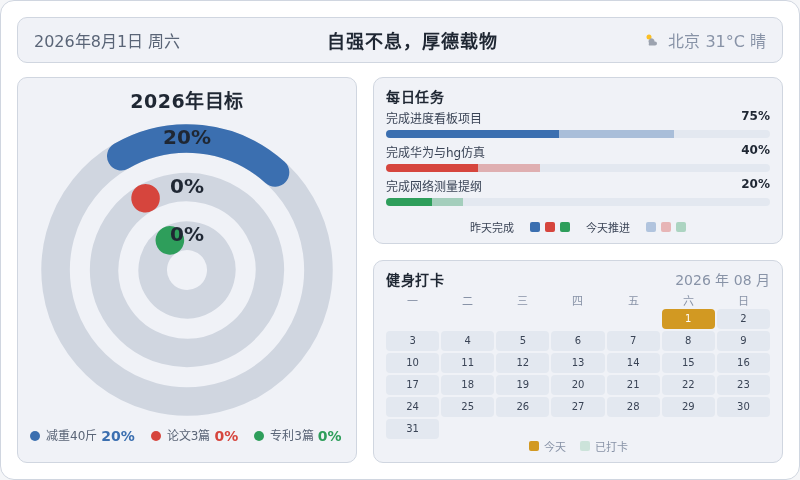
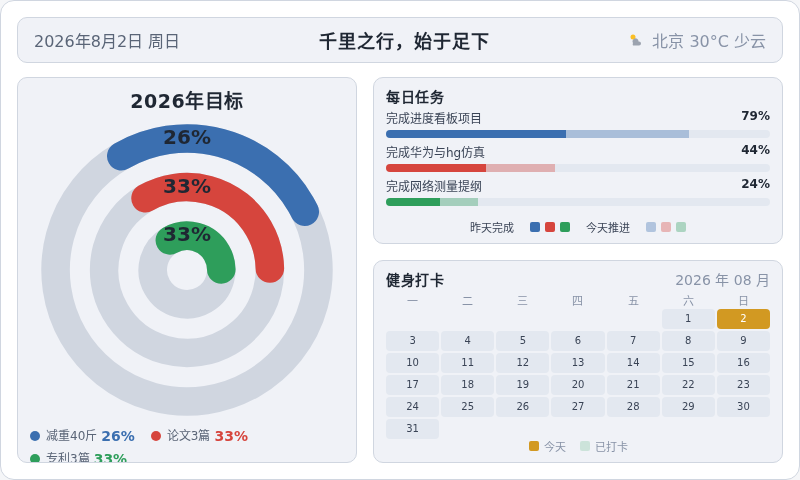
更新每日进度数据并修复看板问题
- 数据更新: 体重90.5(8/2)、健身打卡跑步一公里、任务进度+3、目标done+1、新口号千里之行，始于足下
- 新增 refresh_csv.py: 每日CSV刷新脚本(weight/fitness/tasks/goals/slogan)
- generate_dashboard.py:
  * slogan改为读取最后一个非空行(配合追加式更新)
  * 修复周日日期索引越界bug
  * 日期归一化, 兼容 2026/8/2 与 2026-08-01 两种格式
  * tasks取最新日期一组任务(兼容每日快照)

diff --git a/output/dashboard.html b/output/dashboard.html
@@ -153,11 +153,11 @@
 <body>
   <div class="dash">
     <div class="topbar">
-      <div class="tb-date" id="tbDate">2026年8月1日 周六</div>
-      <div class="tb-slogan">自强不息，厚德载物</div>
+      <div class="tb-date" id="tbDate">2026年8月2日 周日</div>
+      <div class="tb-slogan">千里之行，始于足下</div>
       <div class="tb-weather">
         <svg width="16" height="16" viewBox="0 0 16 16" aria-hidden="true"><circle cx="5" cy="5" r="2.5" fill="#fbbf24"/><path d="M5 11 a3 3 0 1 1 5.5 -1.5 h0.5 a2 2 0 1 1 0 4 H5 a2.5 2.5 0 0 1 0 -2.5z" fill="#9ca3af"/></svg>
-        <span>北京 31°C 晴</span>
+        <span>北京 30°C 少云</span>
       </div>
     </div>
     <div class="content">
@@ -168,34 +168,34 @@
           <svg viewBox="0 0 210 210" width="300" height="300" role="img" aria-label="三环进度仪表盘">
             <title>2026年目标三环进度</title>
             <g transform="rotate(-120 105 105)">
-              <circle cx="105" cy="105" r="92" fill="none" stroke="#d0d6e0" stroke-width="20"/><circle cx="105" cy="105" r="92" fill="none" stroke="#3b6fb0" stroke-width="20" stroke-linecap="round" stroke-dasharray="115.61 578.05"/><circle cx="105" cy="105" r="58" fill="none" stroke="#d0d6e0" stroke-width="20"/><circle cx="105" cy="105" r="58" fill="none" stroke="#d6453d" stroke-width="20" stroke-linecap="round" stroke-dasharray="0.00 364.42"/><circle cx="105" cy="105" r="24" fill="none" stroke="#d0d6e0" stroke-width="20"/><circle cx="105" cy="105" r="24" fill="none" stroke="#2e9e5b" stroke-width="20" stroke-linecap="round" stroke-dasharray="0.00 150.80"/>
+              <circle cx="105" cy="105" r="92" fill="none" stroke="#d0d6e0" stroke-width="20"/><circle cx="105" cy="105" r="92" fill="none" stroke="#3b6fb0" stroke-width="20" stroke-linecap="round" stroke-dasharray="150.29 578.05"/><circle cx="105" cy="105" r="58" fill="none" stroke="#d0d6e0" stroke-width="20"/><circle cx="105" cy="105" r="58" fill="none" stroke="#d6453d" stroke-width="20" stroke-linecap="round" stroke-dasharray="120.26 364.42"/><circle cx="105" cy="105" r="24" fill="none" stroke="#d0d6e0" stroke-width="20"/><circle cx="105" cy="105" r="24" fill="none" stroke="#2e9e5b" stroke-width="20" stroke-linecap="round" stroke-dasharray="49.76 150.80"/>
             </g>
-            <text x="105" y="13" text-anchor="middle" dominant-baseline="middle" fill="#1f2733" font-size="14" font-weight="700">20%</text><text x="105" y="47" text-anchor="middle" dominant-baseline="middle" fill="#1f2733" font-size="14" font-weight="700">0%</text><text x="105" y="81" text-anchor="middle" dominant-baseline="middle" fill="#1f2733" font-size="14" font-weight="700">0%</text>
+            <text x="105" y="13" text-anchor="middle" dominant-baseline="middle" fill="#1f2733" font-size="14" font-weight="700">26%</text><text x="105" y="47" text-anchor="middle" dominant-baseline="middle" fill="#1f2733" font-size="14" font-weight="700">33%</text><text x="105" y="81" text-anchor="middle" dominant-baseline="middle" fill="#1f2733" font-size="14" font-weight="700">33%</text>
           </svg>
         </div>
-        <div class="legend"><div class="legend-row"><span class="dot" style="background:#3b6fb0"></span><span class="lg-name">减重40斤</span><span class="lg-pct" style="color:#3b6fb0">20%</span></div><div class="legend-row"><span class="dot" style="background:#d6453d"></span><span class="lg-name">论文3篇</span><span class="lg-pct" style="color:#d6453d">0%</span></div><div class="legend-row"><span class="dot" style="background:#2e9e5b"></span><span class="lg-name">专利3篇</span><span class="lg-pct" style="color:#2e9e5b">0%</span></div></div>
+        <div class="legend"><div class="legend-row"><span class="dot" style="background:#3b6fb0"></span><span class="lg-name">减重40斤</span><span class="lg-pct" style="color:#3b6fb0">26%</span></div><div class="legend-row"><span class="dot" style="background:#d6453d"></span><span class="lg-name">论文3篇</span><span class="lg-pct" style="color:#d6453d">33%</span></div><div class="legend-row"><span class="dot" style="background:#2e9e5b"></span><span class="lg-name">专利3篇</span><span class="lg-pct" style="color:#2e9e5b">33%</span></div></div>
       </div>
     </div>
     <div class="col-right">
       <div class="panel tasks-panel">
         <div class="panel-title" style="color:#1f2733">每日任务</div>
         <div class="task">
-          <div class="task-head"><span style="color:#3a4456">完成进度看板项目</span><span class="task-val" style="color:#1f2733">75%</span></div>
+          <div class="task-head"><span style="color:#3a4456">完成进度看板项目</span><span class="task-val" style="color:#1f2733">79%</span></div>
           <div class="bar">
-            <div class="seg" style="width:45%;background:#3b6fb0"></div>
-            <div class="seg" style="width:30%;background:rgba(59,111,176,0.35)"></div>
+            <div class="seg" style="width:47%;background:#3b6fb0"></div>
+            <div class="seg" style="width:32%;background:rgba(59,111,176,0.35)"></div>
           </div>
         </div><div class="task">
-          <div class="task-head"><span style="color:#3a4456">完成华为与hg仿真</span><span class="task-val" style="color:#1f2733">40%</span></div>
+          <div class="task-head"><span style="color:#3a4456">完成华为与hg仿真</span><span class="task-val" style="color:#1f2733">44%</span></div>
           <div class="bar">
-            <div class="seg" style="width:24%;background:#d6453d"></div>
-            <div class="seg" style="width:16%;background:rgba(214,69,61,0.35)"></div>
+            <div class="seg" style="width:26%;background:#d6453d"></div>
+            <div class="seg" style="width:18%;background:rgba(214,69,61,0.35)"></div>
           </div>
         </div><div class="task">
-          <div class="task-head"><span style="color:#3a4456">完成网络测量提纲</span><span class="task-val" style="color:#1f2733">20%</span></div>
+          <div class="task-head"><span style="color:#3a4456">完成网络测量提纲</span><span class="task-val" style="color:#1f2733">24%</span></div>
           <div class="bar">
-            <div class="seg" style="width:12%;background:#2e9e5b"></div>
-            <div class="seg" style="width:8%;background:rgba(46,158,91,0.35)"></div>
+            <div class="seg" style="width:14%;background:#2e9e5b"></div>
+            <div class="seg" style="width:10%;background:rgba(46,158,91,0.35)"></div>
           </div>
         </div>
         <div class="task-legend">
@@ -211,7 +211,7 @@
           <span class="cal-date">2026 年 08 月</span>
         </div>
         <div class="cal-grid wk"><span>一</span><span>二</span><span>三</span><span>四</span><span>五</span><span>六</span><span>日</span></div>
-        <div class="cal-grid"><span class="cell empty"></span><span class="cell empty"></span><span class="cell empty"></span><span class="cell empty"></span><span class="cell empty"></span><span class="cell today" style="background:#d29922;color:#ffffff">1</span><span class="cell" style="background:#e3e8f0;color:#3a4456">2</span><span class="cell" style="background:#e3e8f0;color:#3a4456">3</span><span class="cell" style="background:#e3e8f0;color:#3a4456">4</span><span class="cell" style="background:#e3e8f0;color:#3a4456">5</span><span class="cell" style="background:#e3e8f0;color:#3a4456">6</span><span class="cell" style="background:#e3e8f0;color:#3a4456">7</span><span class="cell" style="background:#e3e8f0;color:#3a4456">8</span><span class="cell" style="background:#e3e8f0;color:#3a4456">9</span><span class="cell" style="background:#e3e8f0;color:#3a4456">10</span><span class="cell" style="background:#e3e8f0;color:#3a4456">11</span><span class="cell" style="background:#e3e8f0;color:#3a4456">12</span><span class="cell" style="background:#e3e8f0;color:#3a4456">13</span><span class="cell" style="background:#e3e8f0;color:#3a4456">14</span><span class="cell" style="background:#e3e8f0;color:#3a4456">15</span><span class="cell" style="background:#e3e8f0;color:#3a4456">16</span><span class="cell" style="background:#e3e8f0;color:#3a4456">17</span><span class="cell" style="background:#e3e8f0;color:#3a4456">18</span><span class="cell" style="background:#e3e8f0;color:#3a4456">19</span><span class="cell" style="background:#e3e8f0;color:#3a4456">20</span><span class="cell" style="background:#e3e8f0;color:#3a4456">21</span><span class="cell" style="background:#e3e8f0;color:#3a4456">22</span><span class="cell" style="background:#e3e8f0;color:#3a4456">23</span><span class="cell" style="background:#e3e8f0;color:#3a4456">24</span><span class="cell" style="background:#e3e8f0;color:#3a4456">25</span><span class="cell" style="background:#e3e8f0;color:#3a4456">26</span><span class="cell" style="background:#e3e8f0;color:#3a4456">27</span><span class="cell" style="background:#e3e8f0;color:#3a4456">28</span><span class="cell" style="background:#e3e8f0;color:#3a4456">29</span><span class="cell" style="background:#e3e8f0;color:#3a4456">30</span><span class="cell" style="background:#e3e8f0;color:#3a4456">31</span></div>
+        <div class="cal-grid"><span class="cell empty"></span><span class="cell empty"></span><span class="cell empty"></span><span class="cell empty"></span><span class="cell empty"></span><span class="cell" style="background:#e3e8f0;color:#3a4456">1</span><span class="cell today" style="background:#d29922;color:#ffffff">2</span><span class="cell" style="background:#e3e8f0;color:#3a4456">3</span><span class="cell" style="background:#e3e8f0;color:#3a4456">4</span><span class="cell" style="background:#e3e8f0;color:#3a4456">5</span><span class="cell" style="background:#e3e8f0;color:#3a4456">6</span><span class="cell" style="background:#e3e8f0;color:#3a4456">7</span><span class="cell" style="background:#e3e8f0;color:#3a4456">8</span><span class="cell" style="background:#e3e8f0;color:#3a4456">9</span><span class="cell" style="background:#e3e8f0;color:#3a4456">10</span><span class="cell" style="background:#e3e8f0;color:#3a4456">11</span><span class="cell" style="background:#e3e8f0;color:#3a4456">12</span><span class="cell" style="background:#e3e8f0;color:#3a4456">13</span><span class="cell" style="background:#e3e8f0;color:#3a4456">14</span><span class="cell" style="background:#e3e8f0;color:#3a4456">15</span><span class="cell" style="background:#e3e8f0;color:#3a4456">16</span><span class="cell" style="background:#e3e8f0;color:#3a4456">17</span><span class="cell" style="background:#e3e8f0;color:#3a4456">18</span><span class="cell" style="background:#e3e8f0;color:#3a4456">19</span><span class="cell" style="background:#e3e8f0;color:#3a4456">20</span><span class="cell" style="background:#e3e8f0;color:#3a4456">21</span><span class="cell" style="background:#e3e8f0;color:#3a4456">22</span><span class="cell" style="background:#e3e8f0;color:#3a4456">23</span><span class="cell" style="background:#e3e8f0;color:#3a4456">24</span><span class="cell" style="background:#e3e8f0;color:#3a4456">25</span><span class="cell" style="background:#e3e8f0;color:#3a4456">26</span><span class="cell" style="background:#e3e8f0;color:#3a4456">27</span><span class="cell" style="background:#e3e8f0;color:#3a4456">28</span><span class="cell" style="background:#e3e8f0;color:#3a4456">29</span><span class="cell" style="background:#e3e8f0;color:#3a4456">30</span><span class="cell" style="background:#e3e8f0;color:#3a4456">31</span></div>
         <div class="cal-legend">
           <span style="color:#8893a7"><i class="sw" style="background:#d29922"></i>今天</span>
           <span style="color:#8893a7"><i class="sw" style="background:rgba(46,158,91,0.18)"></i>已打卡</span>

diff --git a/refresh_csv.py b/refresh_csv.py
@@ -1,0 +1,177 @@
+#!/usr/bin/env python3
+"""
+refresh_csv.py — 每日刷新 CSV 进度数据
+
+用法:
+    python3 refresh_csv.py            # 刷新全部 CSV
+    python3 refresh_csv.py fitness    # 只刷新指定文件(不带 .csv 后缀)
+
+说明:
+    在此编写每天的进度更新逻辑: 读取 data/ 下的 CSV -> 更新进度 -> 写回。
+"""
+
+import csv
+import sys
+from datetime import date
+from pathlib import Path
+
+DATA_DIR = Path(__file__).resolve().parent / "data"
+
+# 需要刷新(或可被单独指定刷新)的 CSV 文件
+CSV_FILES = [
+    "fitness.csv",
+    "goals.csv",
+    "weight.csv",
+    "tasks.csv",
+    "slogan.csv",
+]
+
+
+def refresh_one(csv_name: str, value: str | None = None) -> None:
+    """刷新单个 CSV 文件。在此编写具体更新逻辑。"""
+    path = DATA_DIR / csv_name
+    if not path.exists():
+        print(f"[跳过] 文件不存在: {path}")
+        return
+
+    # --- weight.csv: 直接追加一行 (date,weight) ---
+    if csv_name == "weight.csv":
+        if value is None:
+            print(f"[提示] {csv_name} 需要体重数值, 用法: python3 refresh_csv.py weight 90.5")
+            return
+        today = date.today()
+        date_str = f"{today.year}/{today.month}/{today.day}"  # 与现有格式一致, 不带前导零
+        with open(path, "r", newline="", encoding="utf-8") as f:
+            lines = f.readlines()
+        # 防重复: 今天已有记录则跳过
+        for line in lines:
+            if line.startswith(date_str + ","):
+                print(f"[跳过] 今天({date_str})已有记录, 避免重复追加: {line.strip()}")
+                return
+        with open(path, "a", newline="", encoding="utf-8") as f:
+            f.write(f"{date_str},{value}\n")
+        print(f"[完成] 已追加: {path} -> {date_str},{value}")
+        return
+
+    # --- fitness.csv: 填入第一个空行 (date,checkin,content,yesterday,today) ---
+    if csv_name == "fitness.csv":
+        if value is None:
+            print(f"[提示] {csv_name} 需要打卡内容, 用法: python3 refresh_csv.py fitness 跑步一公里")
+            return
+        today = date.today()
+        date_str = f"{today.year}/{today.month}/{today.day}"
+        new_row = f"{date_str},1,{value},1,1\n"
+        with open(path, "r", newline="", encoding="utf-8") as f:
+            lines = f.readlines()
+        # 防重复: 今天已有记录则跳过
+        for line in lines:
+            if line.startswith(date_str + ","):
+                print(f"[跳过] 今天({date_str})已有记录, 避免重复追加: {line.strip()}")
+                return
+        # 找第一个空行填入, 没有空行则追加到末尾
+        for i, line in enumerate(lines):
+            if line.strip().strip(",").strip() == "":
+                lines[i] = new_row
+                break
+        else:
+            lines.append(new_row)
+        with open(path, "w", newline="", encoding="utf-8") as f:
+            f.writelines(lines)
+        print(f"[完成] 已打卡: {path} -> {new_row.strip()}")
+        return
+
+    # --- tasks.csv: 所有任务 progress 加 x (x 由命令行传入, 不写死) ---
+    if csv_name == "tasks.csv":
+        if value is None or not value.lstrip("-").isdigit():
+            print(f"[提示] {csv_name} 需要增量数值, 用法: python3 refresh_csv.py tasks 3 (对所有任务 progress +3)")
+            return
+        delta = int(value)
+        with open(path, "r", newline="", encoding="utf-8") as f:
+            lines = f.readlines()
+        changed = []
+        for i, line in enumerate(lines[1:], start=1):  # 跳过表头
+            parts = line.rstrip("\n").split(",")
+            if len(parts) >= 3 and parts[2].strip().isdigit():
+                parts[2] = str(int(parts[2]) + delta)
+                lines[i] = ",".join(parts) + "\n"
+                changed.append(parts)
+        with open(path, "w", newline="", encoding="utf-8") as f:
+            f.writelines(lines)
+        if changed:
+            print(f"[完成] 进度已更新: {path} (增量 {delta:+d})")
+            for parts in changed:
+                print(f"    {parts[1]}: {int(parts[2]) - delta} -> {parts[2]}")
+        else:
+            print(f"[跳过] {csv_name} 中没有可更新的进度行")
+        return
+
+    # --- slogan.csv: 直接追加一行新口号 (单列) ---
+    if csv_name == "slogan.csv":
+        if value is None:
+            print(f"[提示] {csv_name} 需要口号内容, 用法: python3 refresh_csv.py slogan 新口号")
+            return
+        with open(path, "r", newline="", encoding="utf-8") as f:
+            lines = f.readlines()
+        # 防重复: 已有相同口号则跳过
+        for line in lines:
+            if line.strip() == value:
+                print(f"[跳过] 已有相同口号, 避免重复记录: {value}")
+                return
+        with open(path, "a", newline="", encoding="utf-8") as f:
+            f.write(f"{value}\n")
+        print(f"[完成] 已追加: {path} -> {value}")
+        return
+
+    # --- goals.csv: 所有目标 done 加 1 (只改 done 列, 不动其他字段) ---
+    if csv_name == "goals.csv":
+        with open(path, "r", newline="", encoding="utf-8") as f:
+            lines = f.readlines()
+        changed = []
+        for i, line in enumerate(lines[1:], start=1):  # 跳过表头
+            parts = line.rstrip("\n").split(",")
+            if len(parts) >= 3 and parts[2].strip().isdigit():
+                parts[2] = str(int(parts[2]) + 1)
+                lines[i] = ",".join(parts) + "\n"
+                changed.append(parts)
+        with open(path, "w", newline="", encoding="utf-8") as f:
+            f.writelines(lines)
+        if changed:
+            print(f"[完成] 目标进度已更新: {path}")
+            for parts in changed:
+                print(f"    {parts[0]}: done {int(parts[2]) - 1} -> {parts[2]} (target {parts[1]})")
+        else:
+            print(f"[跳过] {csv_name} 中没有可更新的 done 行")
+        return
+
+    # --- 其他 CSV: TODO 逻辑 ---
+    # 示例框架:
+    # with open(path, "r", newline="", encoding="utf-8") as f:
+    #     rows = list(csv.DictReader(f))
+    # ... 更新 rows ...
+    # with open(path, "w", newline="", encoding="utf-8") as f:
+    #     writer = csv.DictWriter(f, fieldnames=rows[0].keys())
+    #     writer.writeheader()
+    #     writer.writerows(rows)
+    print(f"[跳过] {csv_name} 的刷新逻辑尚未实现 (日期: {date.today()})")
+
+
+def main() -> None:
+    args = sys.argv[1:]
+    if not args:
+        for name in CSV_FILES:
+            refresh_one(name)
+        return
+    value = None
+    names = []
+    base_names = [f[:-4] for f in CSV_FILES]
+    for a in args:
+        if a.endswith(".csv") or a in base_names:
+            names.append(a)
+        else:
+            value = a
+    for n in names:
+        refresh_one(n if n.endswith(".csv") else n + ".csv", value)
+
+
+if __name__ == "__main__":
+    main()

diff --git a/generate_dashboard.py b/generate_dashboard.py
@@ -304,6 +304,18 @@ def read_csv_dicts(path):
         return list(csv.DictReader(f))
 
 
+def _norm_date(s):
+    """日期归一化: 兼容 2026/8/2、2026-08-01 等格式 -> 2026-08-02"""
+    s = (s or "").strip().replace("/", "-")
+    parts = s.split("-")
+    if len(parts) == 3:
+        try:
+            return f"{int(parts[0]):04d}-{int(parts[1]):02d}-{int(parts[2]):02d}"
+        except ValueError:
+            pass
+    return s
+
+
 def get_weight_info(target_date):
     rows = read_csv_dicts(os.path.join(DATA_DIR, "weight.csv"))
     if not rows:
@@ -333,7 +345,7 @@ def get_goals_info():
 
 def get_fitness_info(target_date):
     rows = read_csv_dicts(os.path.join(DATA_DIR, "fitness.csv"))
-    row = next((r for r in rows if r["date"] == target_date), None)
+    row = next((r for r in rows if _norm_date(r.get("date")) == target_date), None)
     if not row:
         rows.sort(key=lambda r: r["date"])
         row = rows[-1] if rows else {"checkin": "0", "content": "", "yesterday": "0", "today": "0"}
@@ -348,7 +360,13 @@ def get_fitness_info(target_date):
 
 def get_tasks_info(target_date):
     rows = read_csv_dicts(os.path.join(DATA_DIR, "tasks.csv"))
-    rows = [r for r in rows if r.get("date") == target_date]
+    # 过滤空行, 按日期取最新一组任务 (兼容每天快照多组的情况)
+    rows = [r for r in rows if (r.get("task_name") or "").strip()]
+    if not rows:
+        return {"tasks": []}
+    rows.sort(key=lambda r: _norm_date(r.get("date")))
+    latest = _norm_date(rows[-1].get("date"))
+    rows = [r for r in rows if _norm_date(r.get("date")) == latest]
     tasks = []
     for r in rows:
         try:
@@ -363,17 +381,18 @@ def get_tasks_info(target_date):
 def get_slogan_info():
     """读取 data/slogan.csv 中的口号。
 
-    约定：slogan.csv 为历史记录格式，最新口号放在第一行（表头下），
-    旧的依次下移、不删除。本函数取第一个非空行作为当前口号，
+    约定：slogan.csv 为历史记录格式，最新口号追加在文件末尾，
+    本函数取最后一个非空行作为当前口号，
     文件缺失或内容为空时回退默认口号。
     """
     default_slogan = "日日精进 · 知行合一"
     rows = read_csv_dicts(os.path.join(DATA_DIR, "slogan.csv"))
+    last_text = ""
     for r in rows:
         text = (r.get("slogan") or "").strip()
         if text:
-            return text
-    return default_slogan
+            last_text = text
+    return last_text or default_slogan
 
 
 # ----------------------------------------------------------------------------
@@ -514,8 +533,8 @@ def build_html(weight_info, goals, fitness_info, tasks_info, fitness_rows,
     if slogan is None:
         slogan = get_slogan_info()
     d = datetime.strptime(target_date, "%Y-%m-%d")
-    weekdays = ["周日", "周一", "周二", "周三", "周四", "周五", "周六"]
-    date_str = f"{d.year}年{d.month}月{d.day}日 {weekdays[d.weekday() + 1]}"
+    weekdays = ["周一", "周二", "周三", "周四", "周五", "周六", "周日"]
+    date_str = f"{d.year}年{d.month}月{d.day}日 {weekdays[d.weekday()]}"
     weather = weather_info or {"text": "北京 --°C 未知", "icon": SVG_ICONS["cloud"]}
 
     css = f'''
